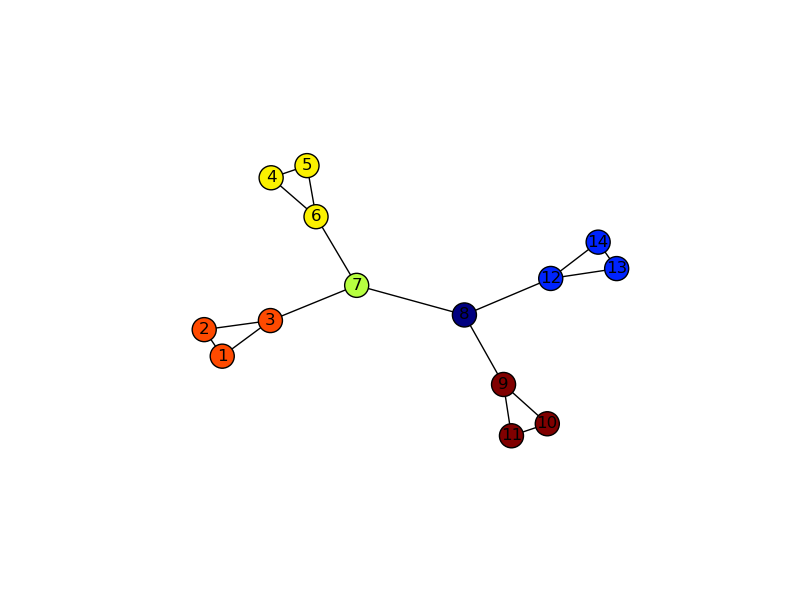
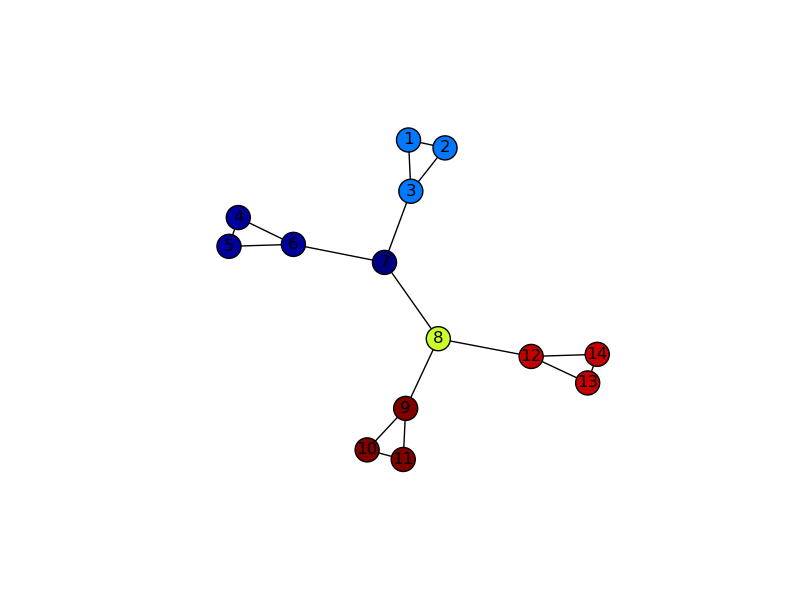
Code cleanup and formatting output per assignment requirement

diff --git a/Assignment_5/manohar_thagadurNataraju_communities.py b/Assignment_5/manohar_thagadurNataraju_communities.py
@@ -16,23 +16,22 @@ def draw_graph(graph, communities, imageFile):
         a = 1
         b = 125000
         rand_no = random.randint(a, b)*5
-        print rand_no
         for node in community:
             normalized_rand = rand_no
             val_map[node] = normalized_rand
-        a = 543*normalized_rand
+        a = 543*normalized_rand # have used some random values to have a significant range change to the previous color
         b = 658*normalized_rand
-    print val_map
+    #print val_map
 
     values = []
     for node in graph.nodes():
         values.append(val_map.get(node, 0.25))
-    print values
+    #print values
 
     nx.draw_networkx(graph, cmap = plt.get_cmap('jet'), node_color = values)
     plt.axis('off')
     plt.savefig(imageFile)
-    plt.show()
+    #plt.show()
 
 def get_betweenness(graph):
     return nx.edge_betweenness(graph)
@@ -48,6 +47,10 @@ def readFileToGraph(inputFile):
         #print edgeList
         graph.add_edge(int(edgeList[0]), int(edgeList[1]))
     return graph
+
+def printAllCommunities(communities):
+    for each_community in communities:
+        print each_community
 
 def main():
     args_len = len(sys.argv)
@@ -107,8 +110,9 @@ def main():
         #print graph.edges()
         #print graph.nodes()
     communities = sorted(communities, key=itemgetter(0))
-    print communities
+    #print communities
     
+    printAllCommunities(communities)
     draw_graph(graphCopy, communities, imageFile)
 
 if __name__ == "__main__":
